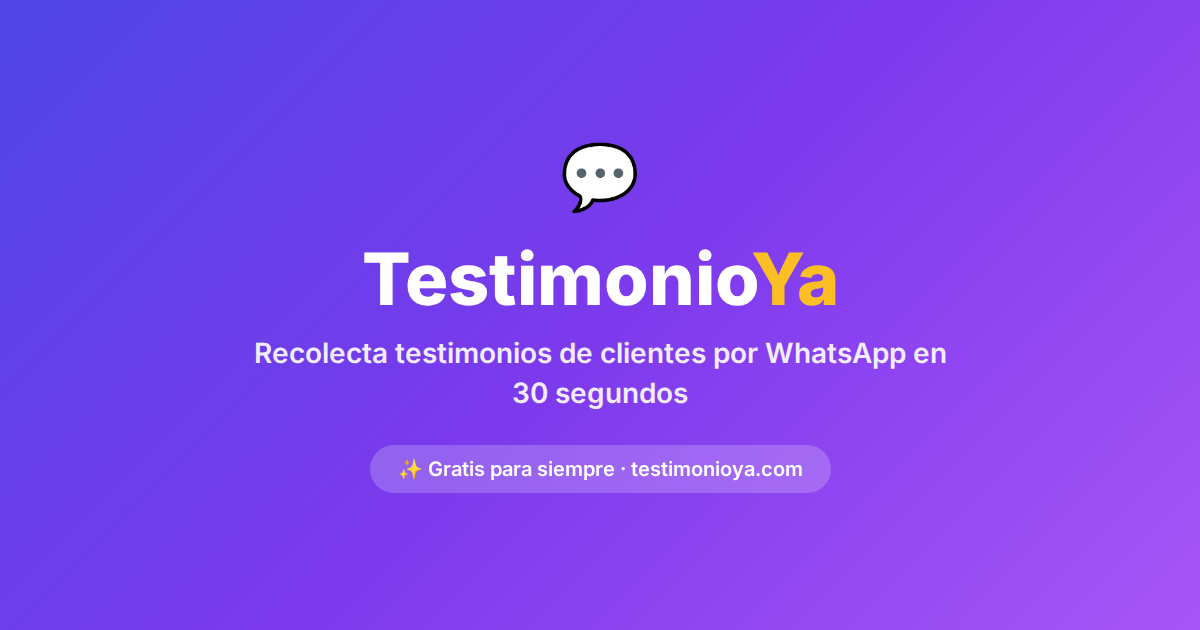
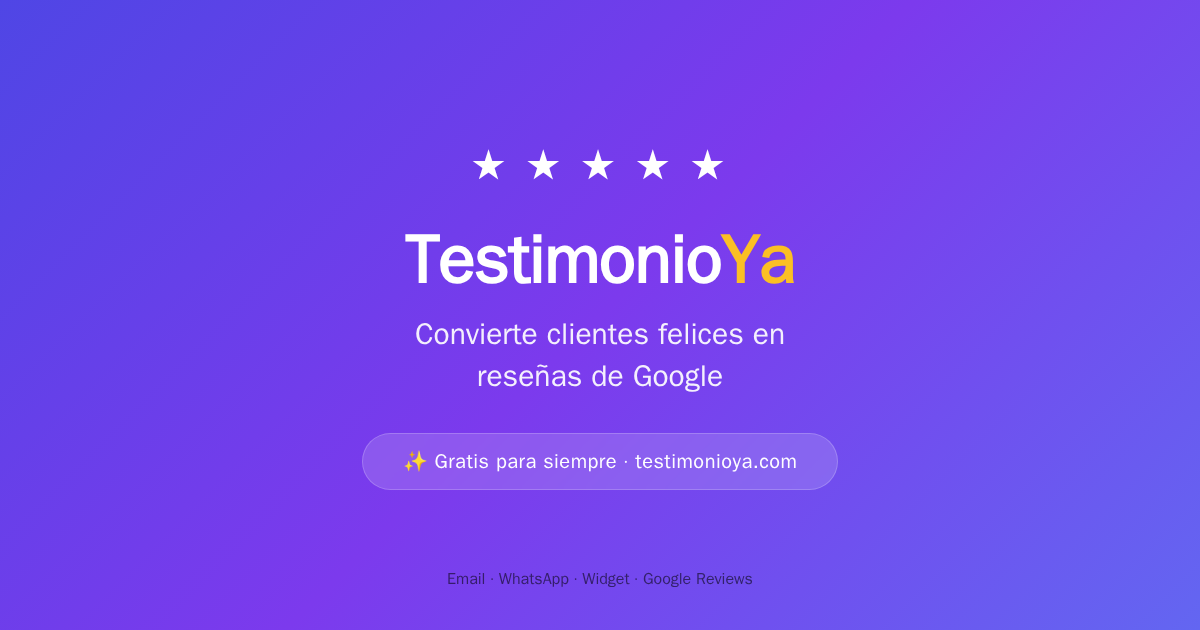
Update OG image + meta tags to match new landing messaging

diff --git a/index.html b/index.html
@@ -6,23 +6,23 @@
     
     <!-- SEO -->
     <title>TestimonioYa - Recolecta testimonios de clientes por WhatsApp</title>
-    <meta name="description" content="La forma más fácil de recopilar y mostrar reseñas de tus clientes. Envía un enlace por WhatsApp y recibe testimonios en 30 segundos. Gratis." />
+    <meta name="description" content="Consigue más reseñas en Google sin esfuerzo. Pide testimonios por email o WhatsApp, filtra los mejores y redirige a Google Reviews automáticamente." />
     <meta name="keywords" content="testimonios, reseñas, WhatsApp, opiniones clientes, social proof, reputación online" />
     <link rel="canonical" href="https://testimonioya.com" />
 
     <!-- Open Graph -->
     <meta property="og:type" content="website" />
     <meta property="og:url" content="https://testimonioya.com" />
-    <meta property="og:title" content="TestimonioYa - Testimonios por WhatsApp" />
-    <meta property="og:description" content="Tus clientes están contentos. Que se note. Recolecta testimonios con un enlace de WhatsApp en 30 segundos." />
+    <meta property="og:title" content="TestimonioYa - Consigue más reseñas en Google sin esfuerzo" />
+    <meta property="og:description" content="Pide testimonios por email o WhatsApp. Los mejores van directo a Google Reviews. Los negativos se quedan como feedback privado." />
     <meta property="og:image" content="https://testimonioya.com/og-image.png" />
     <meta property="og:locale" content="es_ES" />
     <meta property="og:site_name" content="TestimonioYa" />
 
     <!-- Twitter Card -->
     <meta name="twitter:card" content="summary_large_image" />
-    <meta name="twitter:title" content="TestimonioYa - Testimonios por WhatsApp" />
-    <meta name="twitter:description" content="Tus clientes están contentos. Que se note. Recolecta testimonios con un enlace de WhatsApp." />
+    <meta name="twitter:title" content="TestimonioYa - Consigue más reseñas en Google sin esfuerzo" />
+    <meta name="twitter:description" content="Pide testimonios por email o WhatsApp. Los mejores van directo a Google Reviews automáticamente." />
     <meta name="twitter:image" content="https://testimonioya.com/og-image.png" />
 
     <!-- Favicon -->
